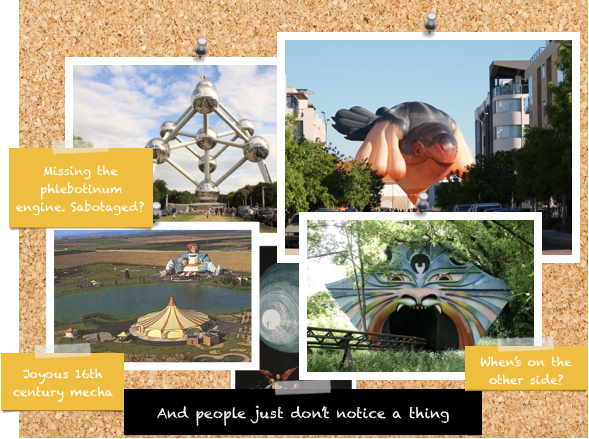
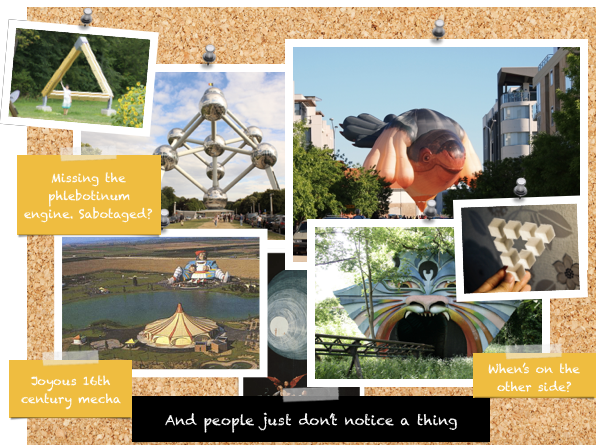
Updates time-travel.md
Auto commit by GitBook Editor

diff --git a/time-travel.md b/time-travel.md
@@ -80,6 +80,10 @@ Example:
 * The Pocket Continuum is really, really unstable. Very soon, it's going to implode. Let's hope that Time Traveler Tina and Time Traveler Tom can manage to find a way out and back into the Main Continuum!
 * Or perhaps this had been Time Traveler Tom and Time Traveler Tina's plan all along? Maybe they do have a plan to consolidate the Pocket Continuum and get it to replace the Main Continuum? Space·Time will tell...
 
+### Help thyself
+
+
+
 ### Killing off Bureaucrats
 
 An important consequence of the Axiom of Observable Contradictions is that Time Travellers \(and people aware of Time Travel\) tend to take extreme measures to avoid killing anyone, in particular other Time Travellers. Killing a Time Traveller \(or, if you are a Time Traveller, killing a time-immobile witness\) tends to cause all sorts of unexpected Observable Contradictions, which in turn has pretty good chances of trapping you in a Pocket Continuum from which you might not be able to escape.
